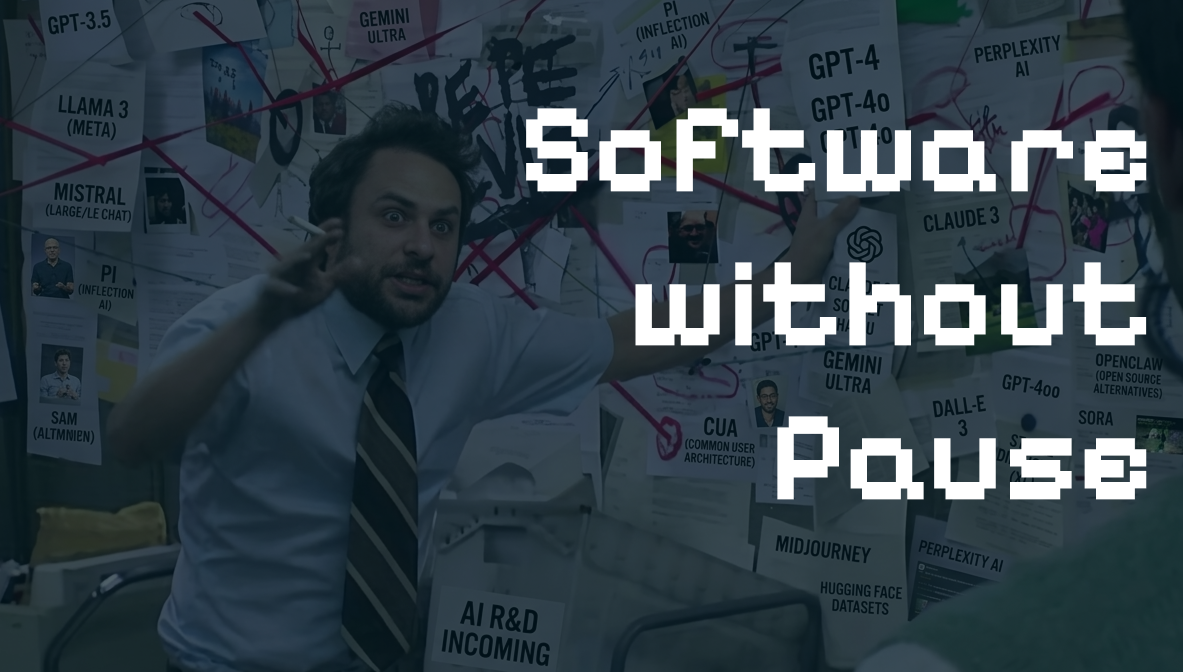
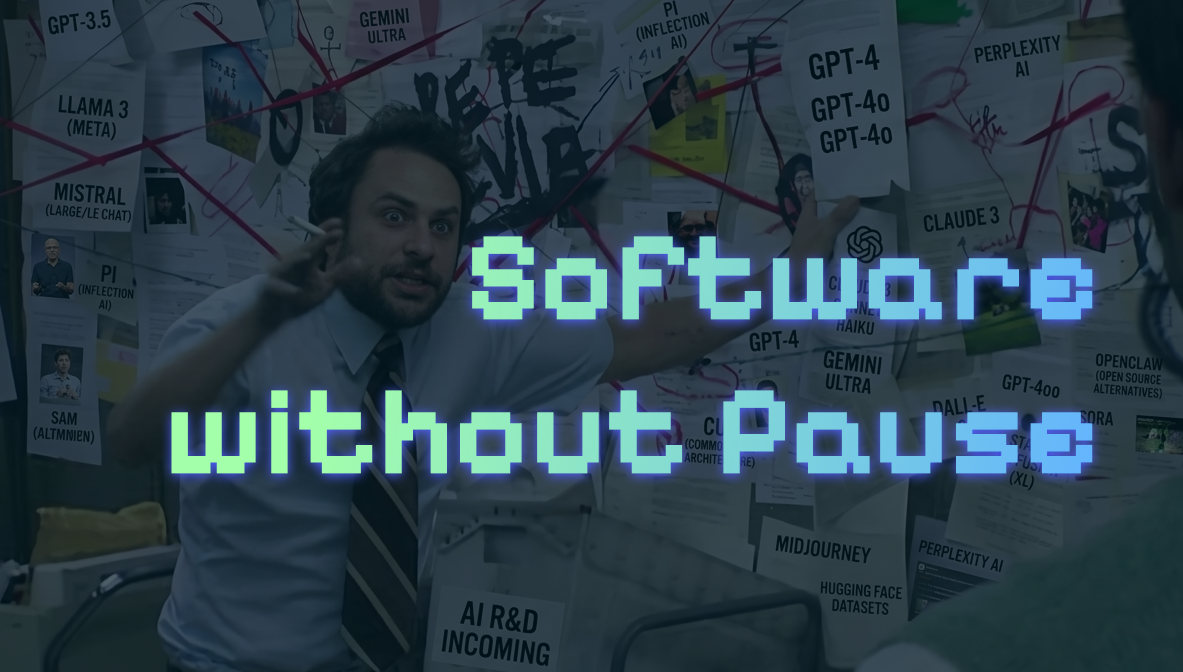
update: claude shipping article link added

Changed region(s): [[0.1217, 0.5625, 0.9738, 0.75], [0.3956, 0.3438, 0.9738, 0.5312], [0.426, 0.1562, 0.9738, 0.3125]]

diff --git a/src/posts/software-without-pause.md b/src/posts/software-without-pause.md
@@ -28,6 +28,10 @@ This isn't a cautionary tale. It's the new normal. And the uncomfortable truth i
 
 A new model every few months. Then every few weeks. Then every few days. New startups, new products, new announcements every other day. The ground beneath every company, whether you're building with AI or just building *near* AI, is shifting faster than anyone's planning cycle can keep up with.
 
+Just checkout [this article](https://www.productcompass.pm/p/claude-shipping-calendar) about everything claude team shipped in 52 days.
+
+![Claude Shippig](/images/posts/claude-shipping.png)
+
 So here's the question worth sitting with: if the old rules are dead, what replaces them?
 
 ## The Rulebook That Got Us Here
